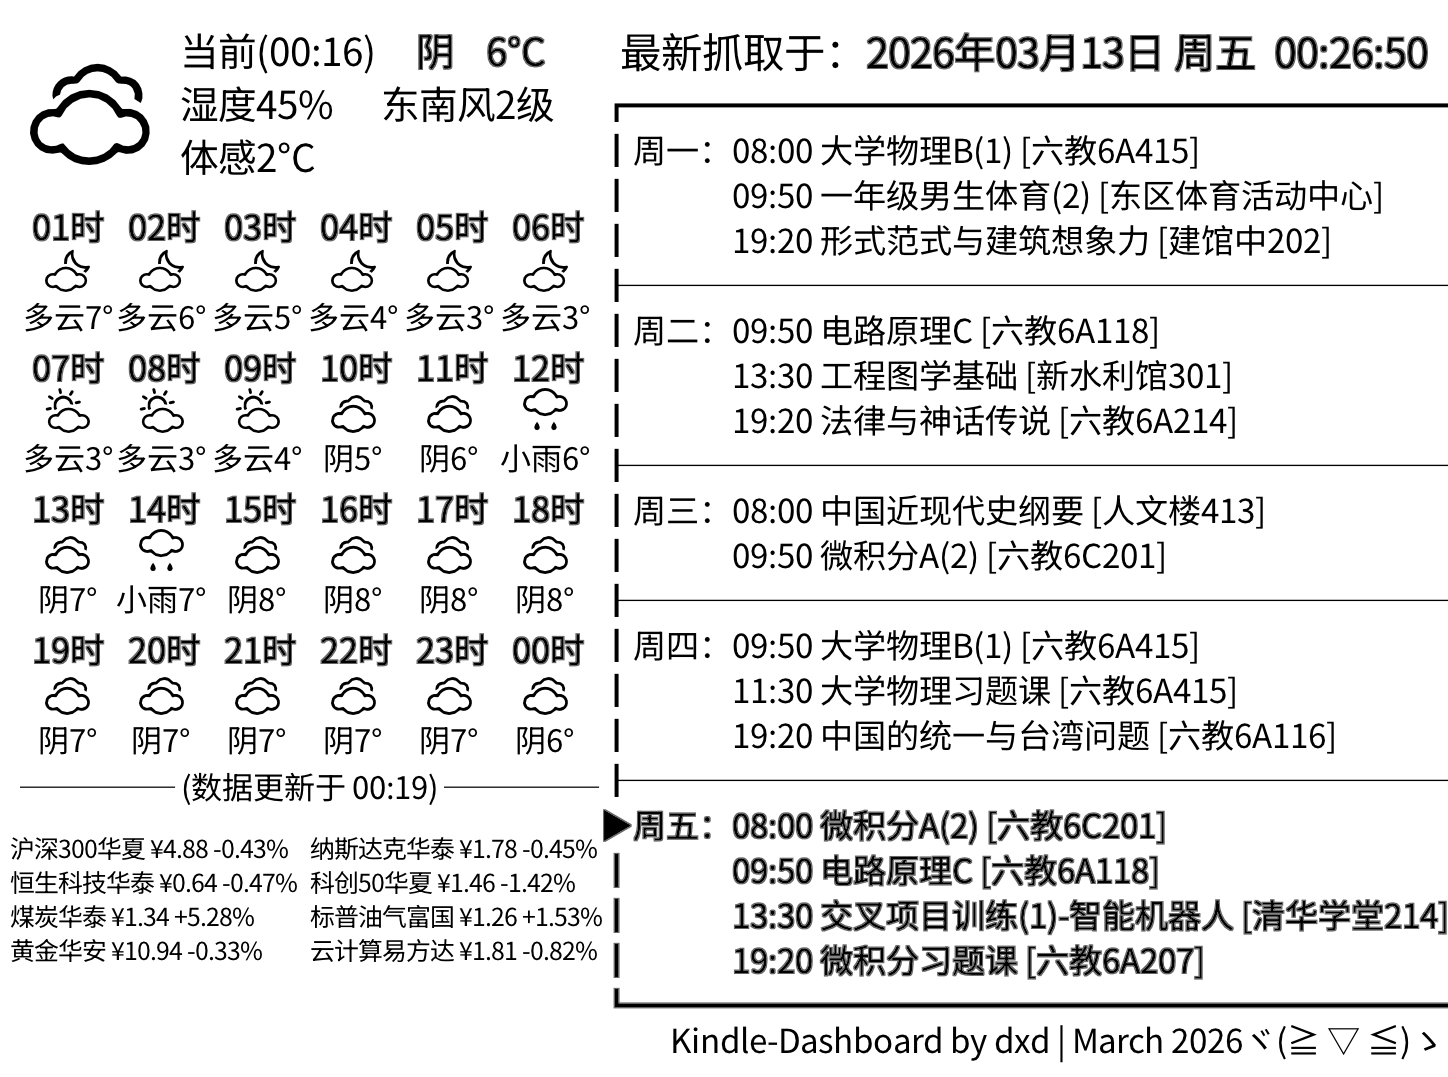
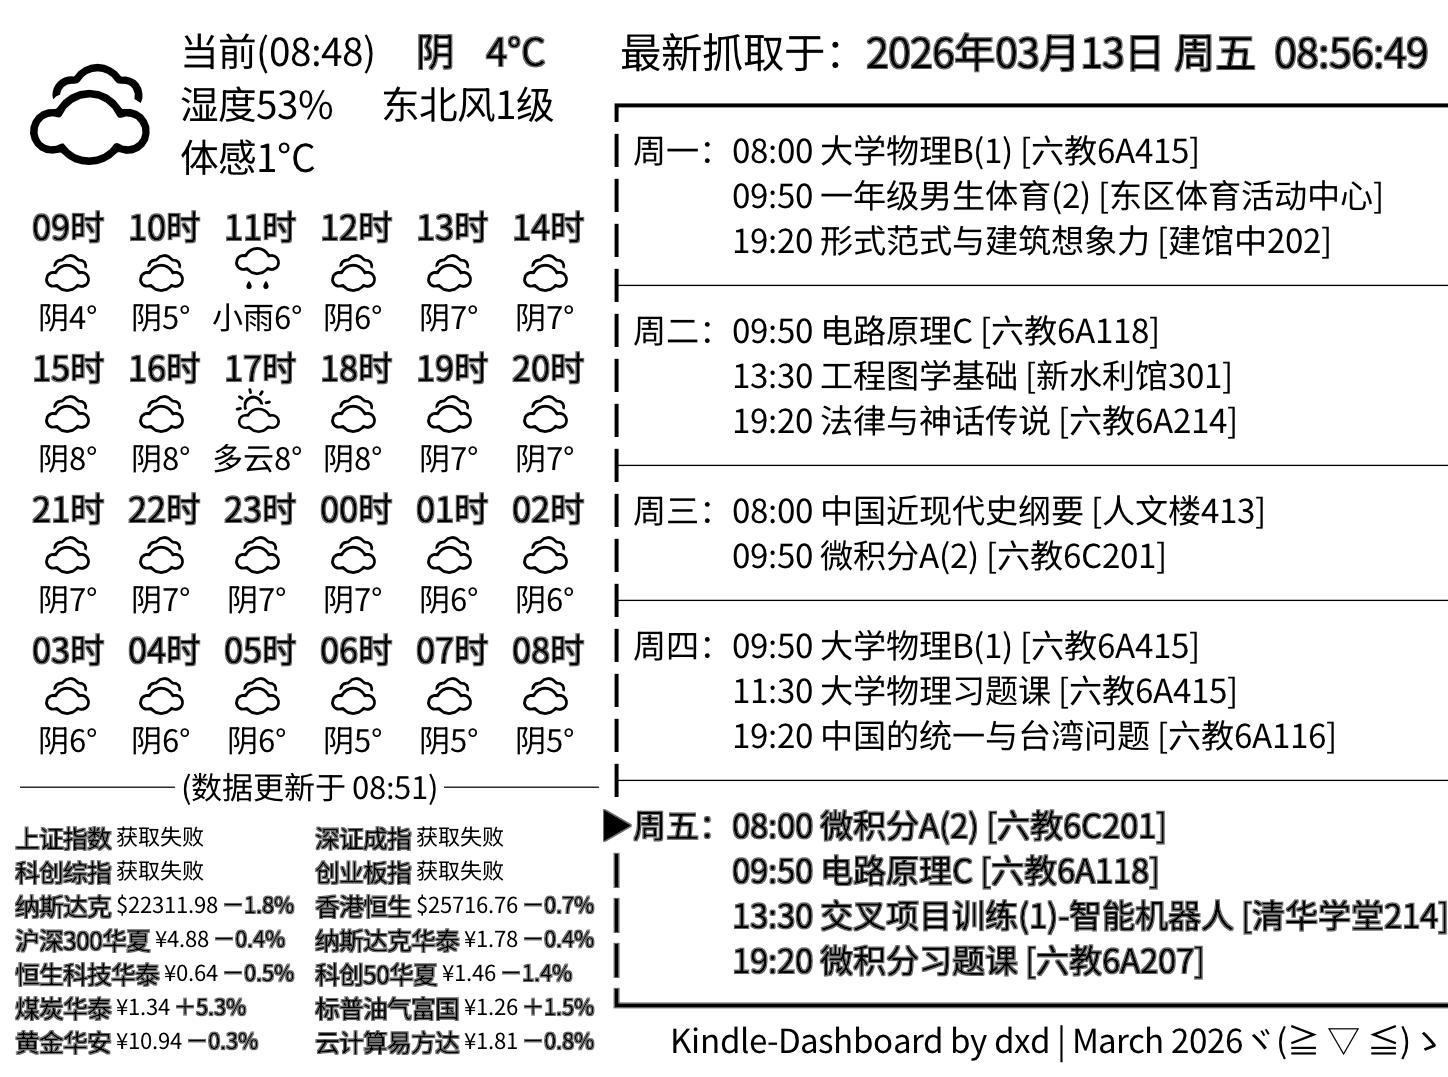
Added all stocks

diff --git a/feeders/stock.py b/feeders/stock.py
@@ -3,6 +3,12 @@ import yfinance as yf
 # ================= 配置区 =================
 # 在这里定义你想看的资产：(代码, 显示名称)
 WATCHLIST = [
+    ("000001.SS", "上证指数"),
+    ("399001.SZ", "深证成指"),
+    ("000680.SS", "科创综指"),
+    ("399006.SZ", "创业板指"),
+    ("^IXIC", "纳斯达克"),
+    ("^HSI", "香港恒生"),
     ("510330.SS", "沪深300华夏"),
     ("513100.SS", "纳斯达克华泰"),
     ("513130.SS", "恒生科技华泰"),
@@ -16,52 +22,66 @@ WATCHLIST = [
 
 def get_stock_data(symbol, friendly_name):
     print(f"[股市模块] 正在获取 {friendly_name}({symbol}) 数据...")
+    
+    # 统一样式模板
+    # ▷ 开启单行加粗但不渲染图标
+    # ↓ 开启缩小模式
+    # ○ 恢复默认
+    style_template = "▷{name}○ ↓{detail}○"
+
     try:
         ticker = yf.Ticker(symbol)
-        # 获取 5 天数据以防遇到周末/节假日（确保能拿到最近两个交易日）
-        hist = ticker.history(period="5d")
+        # 获取 7 天数据，增加拿到数据的概率（防止中间有节假日）
+        hist = ticker.history(period="7d")
         
-        if hist.empty:
-            return None
+        # --- 核心改进：极其严格的防御性检查 ---
+        if hist is None or hist.empty:
+            return style_template.format(name=friendly_name, detail="无数据")
 
-        # 拿到最近两个交易日的收盘价
+        # 拿到最新一行的价格
         current_price = hist['Close'].iloc[-1]
-        prev_close = hist['Close'].iloc[-2]
-        change_pct = (current_price - prev_close) / prev_close * 100
         
         # 自动判断货币符号
         currency = "¥" if (".SS" in symbol or ".SZ" in symbol) else "$"
-        arrow = "+" if change_pct >= 0 else "-"
-        
-        # --- 利用 C++ 渲染引擎的控制符 ---
-        # ▷ 开启加粗（用于名称）
-        # ↓ 缩小（用于价格和涨跌幅）
-        # ○ 重置大小
-        return f"{friendly_name} {currency}{current_price:.2f} {arrow}{abs(change_pct):.2f}%"
+
+        # 检查是否至少有 2 行数据来计算涨跌
+        if len(hist) >= 2:
+            prev_close = hist['Close'].iloc[-2]
+            change_pct = (current_price - prev_close) / prev_close * 100
+            arrow = "＋" if change_pct >= 0 else "－"
+            detail_info = f"{currency}{current_price:.2f} ▷{arrow}{abs(change_pct):.1f}%○"
+        else:
+            # 如果只有一行数据，就只显示价格，不显示涨跌
+            detail_info = f"{currency}{current_price:.2f}"
+            
+        return style_template.format(name=friendly_name, detail=detail_info)
 
     except Exception as e:
-        print(f"[股市模块] {friendly_name} 获取失败: {e}")
-        return None
+        print(f"[股市模块] {friendly_name} 抓取异常: {e}")
+        # 即使失败也返回字符串，用于占位
+        return style_template.format(name=friendly_name, detail="获取失败")
 
 def update(config):
     info_parts = []
     
     for symbol, name in WATCHLIST:
         data_str = get_stock_data(symbol, name)
-        if data_str:
-            info_parts.append(data_str)
+        # 无论成功失败，都加入列表
+        info_parts.append(data_str)
     
-    # 拼接最终字符串。利用 \t 和我们在 C++ 里写的居中/对齐逻辑
-    # 我们可以每行放 2 个资产，用 \n 换行
-    combined_info = ""
+    # 将列表按每行 2 个进行切片并用 \t 连接
+    combined_lines = []
     for i in range(0, len(info_parts), 2):
         pair = info_parts[i : i + 2]
-        combined_info += "\t".join(pair) + "\n"
+        # 使用制表符 \t 触发 C++ 的格子居中对齐逻辑
+        combined_lines.append("\t".join(pair))
     
-    # 更新 JSON
+    # 最终合并成一段带换行的文本
+    final_content = "\n".join(combined_lines)
+    
     for item in config.get("widgets", []):
         if item.get("id") == "stock":
-            item["content"] = combined_info.strip()
+            item["content"] = final_content
             break
             
     return config
